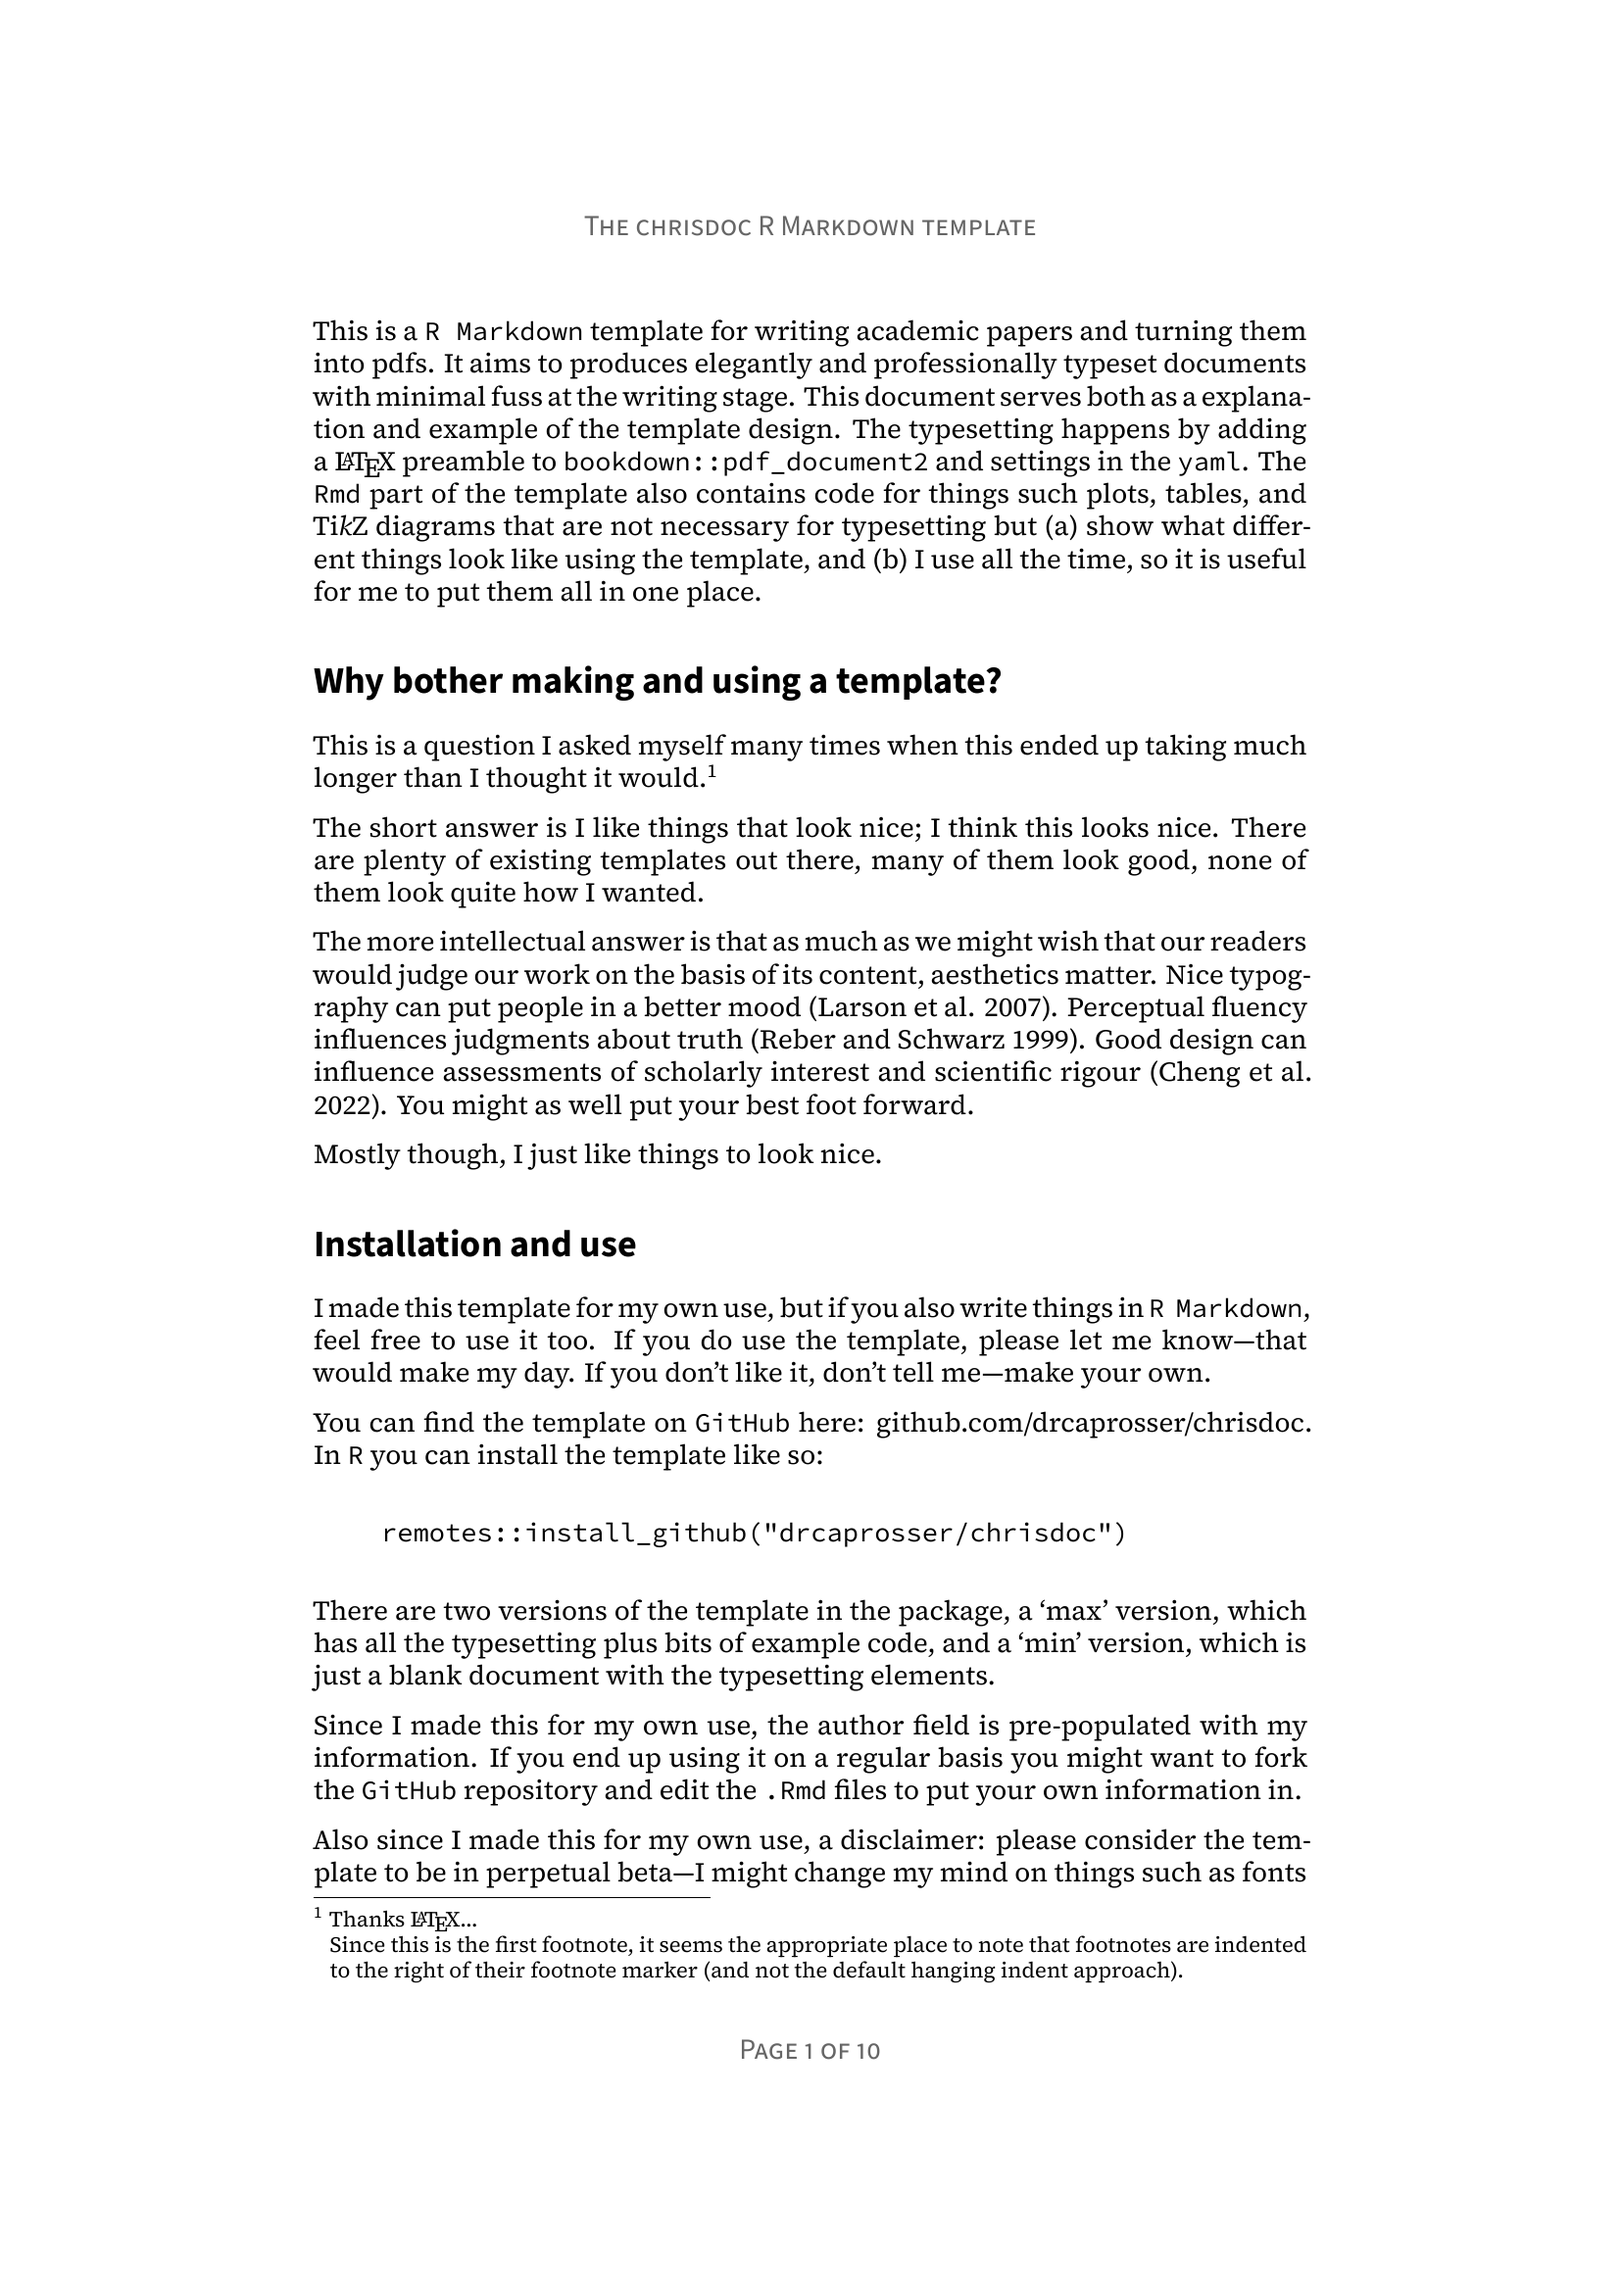
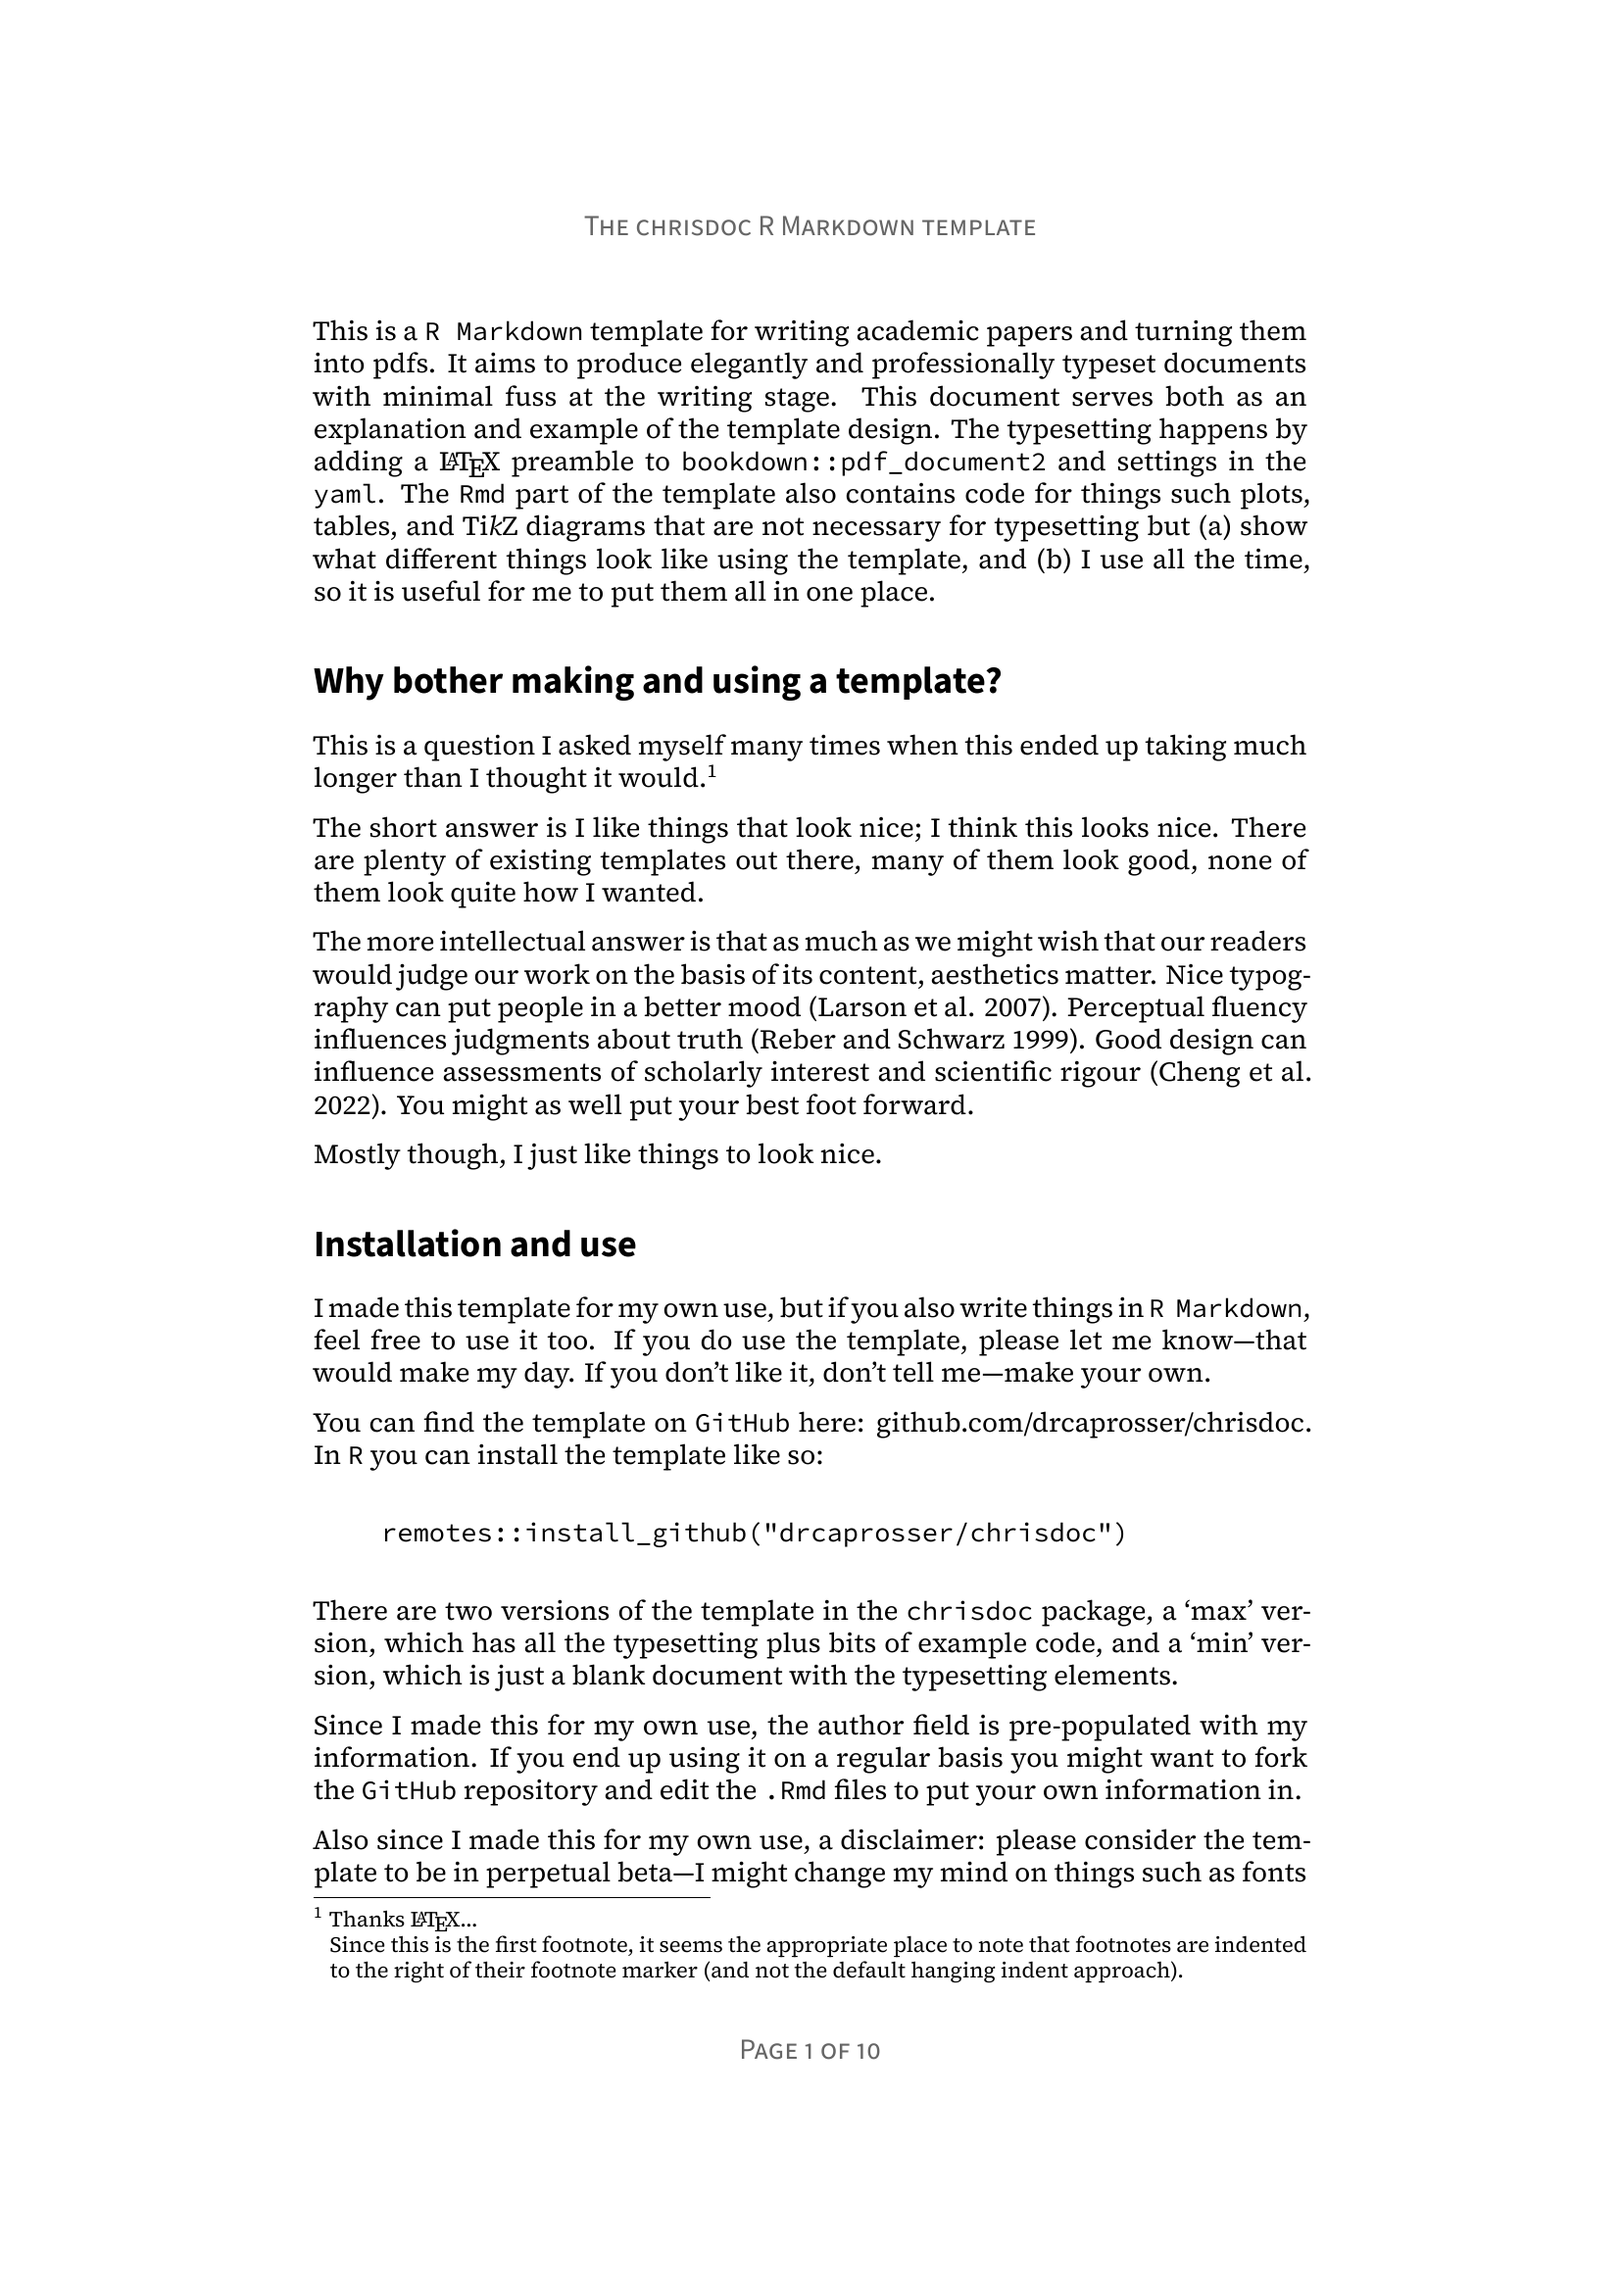
Fix typo

Changed region(s): [[0.185, 0.156, 0.8017, 0.2809], [0.185, 0.6866, 0.8017, 0.749]]

diff --git a/README.md b/README.md
@@ -4,7 +4,7 @@
 # chrisdoc
 
 This is a `R Markdown` template for writing academic papers and turning
-them into pdfs. It aims to produces elegantly and professionally typeset
+them into pdfs. It aims to produce elegantly and professionally typeset
 documents with minimal fuss at the writing stage.
 
 <p align="center">
